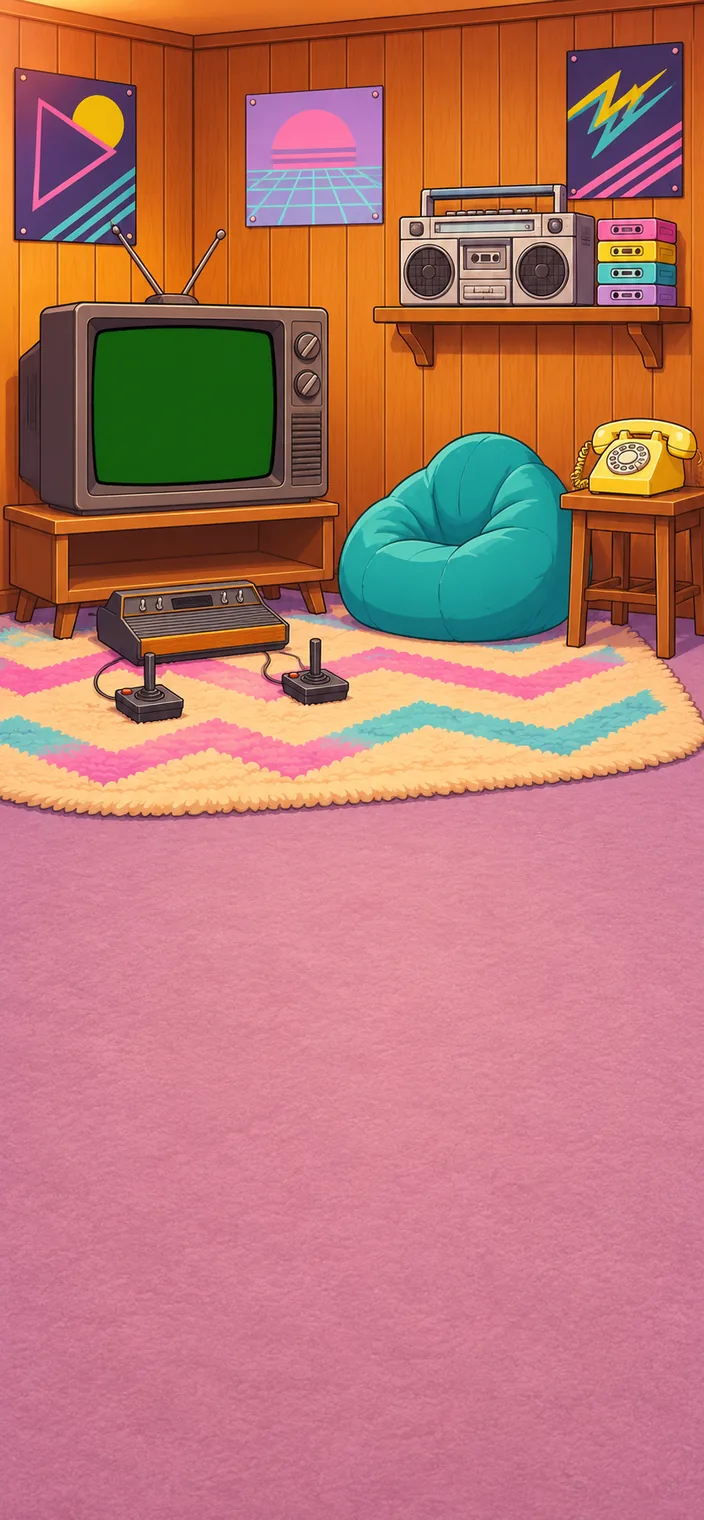
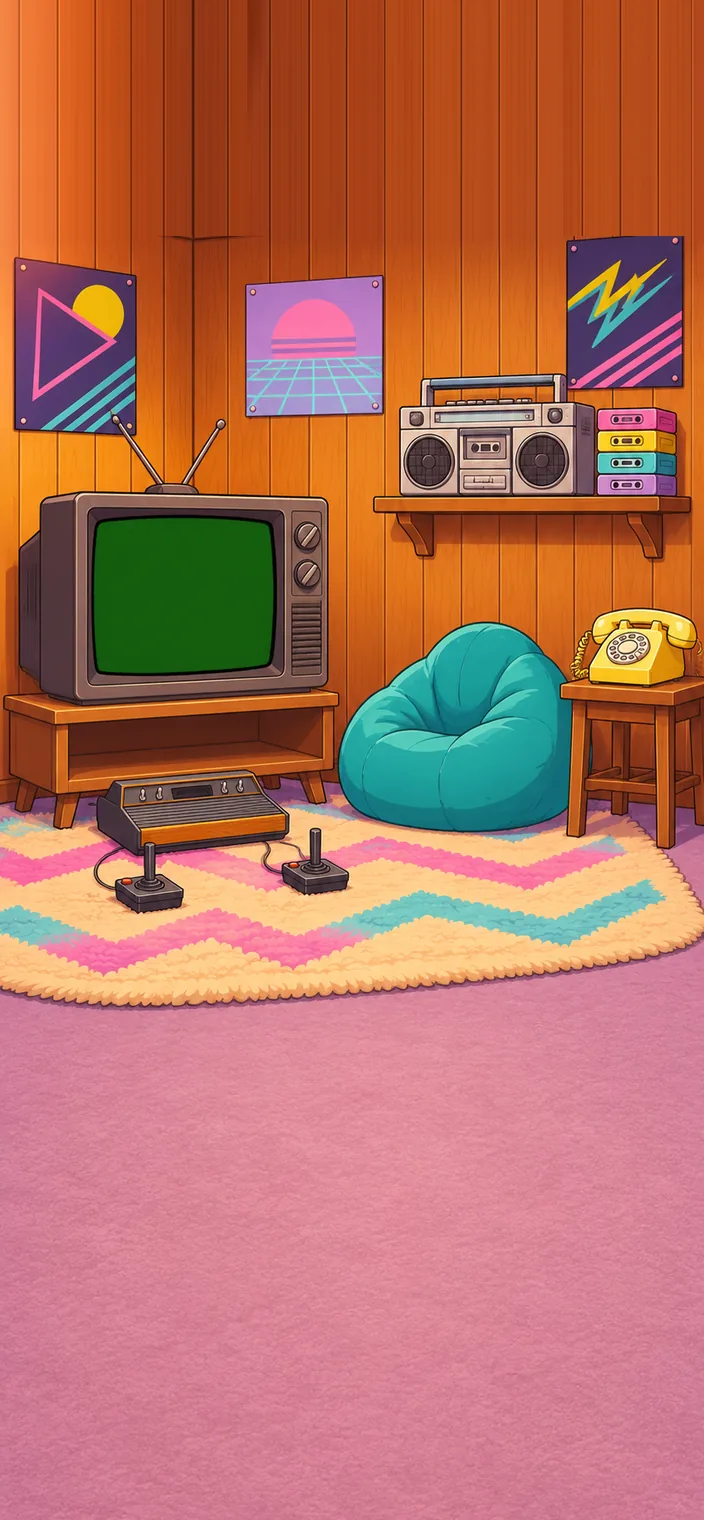
Rec Room home: move the whole room down so the TV and boombox clear the title ribbon (wall extended upward, empty carpet trimmed)
Claude-Session: https://claude.ai/code/session_01LfmF5cxUUBcpb9MQqZTHNz

diff --git a/scripts/shift-home-retro.py b/scripts/shift-home-retro.py
@@ -1,0 +1,18 @@
+#!/usr/bin/env python3
+"""Move the Rec Room picture down so the TV and boombox sit below the title ribbon on the Home screen.
+The wall is vertical planks, so the thin band of bare wall above the posters is stretched upward to make the new headroom (nothing else is touched);
+the same number of rows is cut from the empty carpet at the bottom so the picture keeps its size. usage: shift-home-retro.py SRC.png [SHIFT=230]"""
+import sys
+from PIL import Image
+src = Image.open(sys.argv[1]).convert('RGB'); D = int(sys.argv[2]) if len(sys.argv) > 2 else 230
+W, H = src.size
+Y = 56                                                # first row below the ceiling corner: bare wall (planks and the corner line, all vertical)
+band = src.crop((0, Y, W, Y + 4))
+patch = src.crop((490, Y, 645, Y + 4)); band.paste(patch, (683, 0))   # the right poster starts at row ~50, so that stretch of wall is borrowed from the left of it
+band.paste(src.crop((190, 72, 300, 76)), (190, 0))   # the corner's dark joint sits at row ~56, so the corner line is stretched from a little lower
+top = band.resize((W, D + Y), Image.BICUBIC)          # stretched over the old ceiling rows too
+out = Image.new('RGB', (W, H)); out.paste(top, (0, 0)); out.paste(src.crop((0, Y, W, H - D)), (0, D + Y))
+out.save('/tmp/retro-home-shifted.png')
+out.resize((1029, 2222), Image.LANCZOS).save('anim/home-art/home-retro/plate.webp', quality=86, method=6)
+out.resize((704, 1520), Image.LANCZOS).save('home-retro.webp', quality=82, method=6)
+print('shifted by', D, '->', round(D * 1029 / W), 'px on the 1029 canvas')
